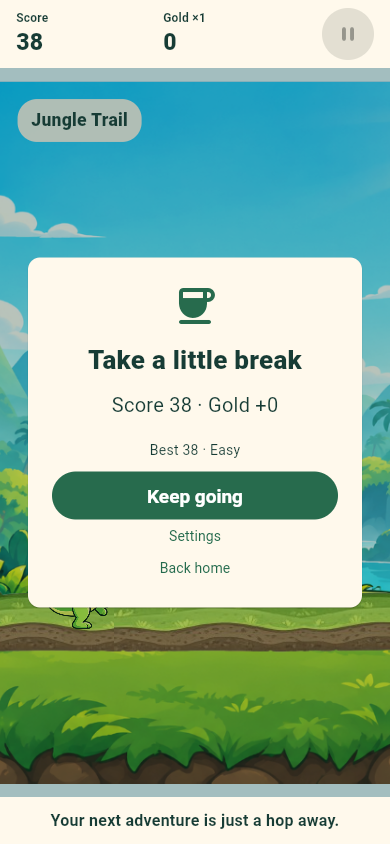
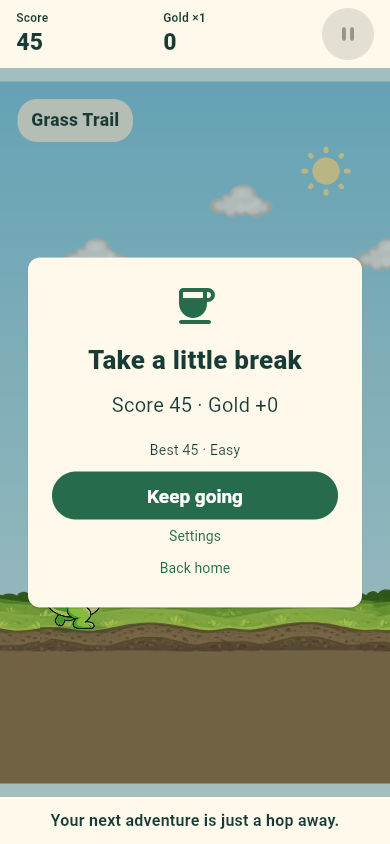
test: verify the simple home and publish the 1.5.0 preview

diff --git a/docs/VALIDATION.md b/docs/VALIDATION.md
@@ -1,5 +1,39 @@
 # Validation record
 
+## November 3, 2026 — simple character home (1.5.0+13)
+
+- Owner selected “Simple, cute character screen.” Replaced the illustrated
+  jungle panel and large navigation cards with one larger dinosaur, a soft
+  pastel circle, centered title/name, prominent Play and compact secondary
+  shortcuts. Existing home hop, all six destinations and save-error recovery
+  remain. Details and evidence limits are in HOME_SIMPLE_REDESIGN.md.
+- Gameplay, full-depth terrain, obstacle skins, shop/gift amounts and the local
+  save format are unchanged. The unused jungle home image is no longer bundled;
+  no new bitmap or dependency was added.
+- All 65 tests pass; analysis and formatting clean. Tests cover home actions and
+  accessible names, device reduced motion, large text/narrow screens, and the
+  existing game/economy/lifecycle regressions.
+- Web build passed. Full browser flow passed with zero external requests,
+  JavaScript errors or failed HTTP responses. Sprout and equipped Bramble homes,
+  the hop, and a 320×568 window were visually inspected. The Back helper now
+  dispatches the accessible action to avoid stale outgoing Flutter web nodes;
+  app navigation did not change. Current captures are in screenshots/home-simple/.
+- Android debug build, native compatibility and official 16 KB zipalign passed.
+  Metadata confirms 1.5.0 / versionCode 13, minimum API 24 and target API 36.
+  ZIP checks confirm all three landscape paintings are absent while terrain
+  and obstacle assets remain. The phone is disconnected, so this revision has
+  not been installed or physically play-tested in this run.
+- Published [v1.5.0-preview.1](https://github.com/BlackAlpha-debug/flutter-dinosaur/releases/tag/v1.5.0-preview.1)
+  under authenticated account BlackAlpha-debug. APK size: 168,272,046 bytes.
+  Local and GitHub SHA-256 agree:
[1 lines of base64/hex data omitted]
+  Anonymous release/APK/checksum URLs returned HTTP 200; the download reports
+  the expected Content-Length. The release is clearly marked as a debug-signed
+  preview, not a Play Store build.
+- Implementation/tag source: `cbf5062a67e641c29d5d0fb28e9c50f2660b64c5`.
+  README/release download links and local references were checked. Gradle and
+  the local preview server were stopped. Android Studio/emulator were not used.
+
 ## November 1, 2026 — downloadable APK and connected-phone update
 
 - Installed the exact verified 1.4.4 APK on the connected phone using an in-place

diff --git a/README.md b/README.md
@@ -24,7 +24,7 @@ Current app version: **1.5.0+13**. Android is the release target; the web build 
 also used for development and visual checks.
 
 **Release status:** in development and being prepared for Google Play. The latest
-test APK is available from [GitHub Releases](https://github.com/BlackAlpha-debug/flutter-dinosaur/releases/tag/v1.4.4-preview.1).
+test APK is available from [GitHub Releases](https://github.com/BlackAlpha-debug/flutter-dinosaur/releases/tag/v1.5.0-preview.1).
 A signed store release still needs publisher configuration and physical-device testing;
 this README does not imply that the app is already published.
 
@@ -129,17 +129,18 @@ separate from the gift track and does not change reward amounts.
 
 ## Download Android APK
 
-**[Download Little Dino 1.4.4 APK](https://github.com/BlackAlpha-debug/flutter-dinosaur/releases/download/v1.4.4-preview.1/little-dino-1.4.4-preview.apk)**
+**[Download Little Dino 1.5.0 APK](https://github.com/BlackAlpha-debug/flutter-dinosaur/releases/download/v1.5.0-preview.1/little-dino-1.5.0-preview.apk)**
 
 For **Android 7.0 and later**. Open the downloaded APK on your phone and follow
 Android's installation prompts. This is a **debug-signed test build**, not the
 Google Play production release.
 
-[Release notes](https://github.com/BlackAlpha-debug/flutter-dinosaur/releases/tag/v1.4.4-preview.1)
-· [SHA-256 checksum](https://github.com/BlackAlpha-debug/flutter-dinosaur/releases/download/v1.4.4-preview.1/little-dino-1.4.4-preview.apk.sha256)
+[Release notes](https://github.com/BlackAlpha-debug/flutter-dinosaur/releases/tag/v1.5.0-preview.1)
+· [SHA-256 checksum](https://github.com/BlackAlpha-debug/flutter-dinosaur/releases/download/v1.5.0-preview.1/little-dino-1.5.0-preview.apk.sha256)
 
-The release contains the same version **1.4.4 / build 12** tested on the connected
-Android phone. Workflow artifacts remain available as an alternative for developers.
+The release contains version **1.5.0 / build 13**, verified with automated tests,
+browser flows and Android packaging checks. Physical-device play testing of this
+revision is pending. Workflow artifacts remain an alternative for developers.
 
 ## Getting started
 

diff --git a/docs/RELEASE.md b/docs/RELEASE.md
@@ -10,16 +10,16 @@ them. A debug APK is for testing only. No Android Studio/emulator is required.
 
 ## Downloadable Android test build
 
-The current public preview is [v1.4.4-preview.1](https://github.com/BlackAlpha-debug/flutter-dinosaur/releases/tag/v1.4.4-preview.1):
+The current public preview is [v1.5.0-preview.1](https://github.com/BlackAlpha-debug/flutter-dinosaur/releases/tag/v1.5.0-preview.1):
 
-- [APK download](https://github.com/BlackAlpha-debug/flutter-dinosaur/releases/download/v1.4.4-preview.1/little-dino-1.4.4-preview.apk)
-- [SHA-256 file](https://github.com/BlackAlpha-debug/flutter-dinosaur/releases/download/v1.4.4-preview.1/little-dino-1.4.4-preview.apk.sha256)
-- Version 1.4.4, Android version code 12; Android 7.0/API 24 minimum.
+- [APK download](https://github.com/BlackAlpha-debug/flutter-dinosaur/releases/download/v1.5.0-preview.1/little-dino-1.5.0-preview.apk)
+- [SHA-256 file](https://github.com/BlackAlpha-debug/flutter-dinosaur/releases/download/v1.5.0-preview.1/little-dino-1.5.0-preview.apk.sha256)
+- Version 1.5.0, Android version code 13; Android 7.0/API 24 minimum.
 - Debug-signed test build, separate from the signed Play Store release below.
 
[1 lines of base64/hex data omitted]
-The exact file was installed successfully on the connected phone. It is hosted
-as a GitHub Release asset, so downloading does not depend on a workflow artifact's
[1 lines of base64/hex data omitted]
+Physical-device play testing of this revision is pending. It is hosted as a
+GitHub Release asset, so downloading does not depend on a workflow artifact's
 14-day retention period. Source, store identity and signing prerequisites remain
 documented below.
 

diff --git a/docs/HOME_SIMPLE_REDESIGN.md b/docs/HOME_SIMPLE_REDESIGN.md
@@ -48,3 +48,7 @@ children's enjoyment. Play-testing with children and parents remains necessary.
   before waiting for route transition; this avoids stale outgoing Flutter web
   semantics during pointer hit-test retries. App navigation behavior was not
   changed to work around the test.
+- Android 1.5.0 / build 13 passed build, native packaging and 16 KB alignment
+  checks. The old landscape images are excluded from the APK. The debug-signed
+  preview is available on [GitHub Releases](https://github.com/BlackAlpha-debug/flutter-dinosaur/releases/tag/v1.5.0-preview.1).
+  The phone was disconnected, so native visual/feel testing is still pending.
